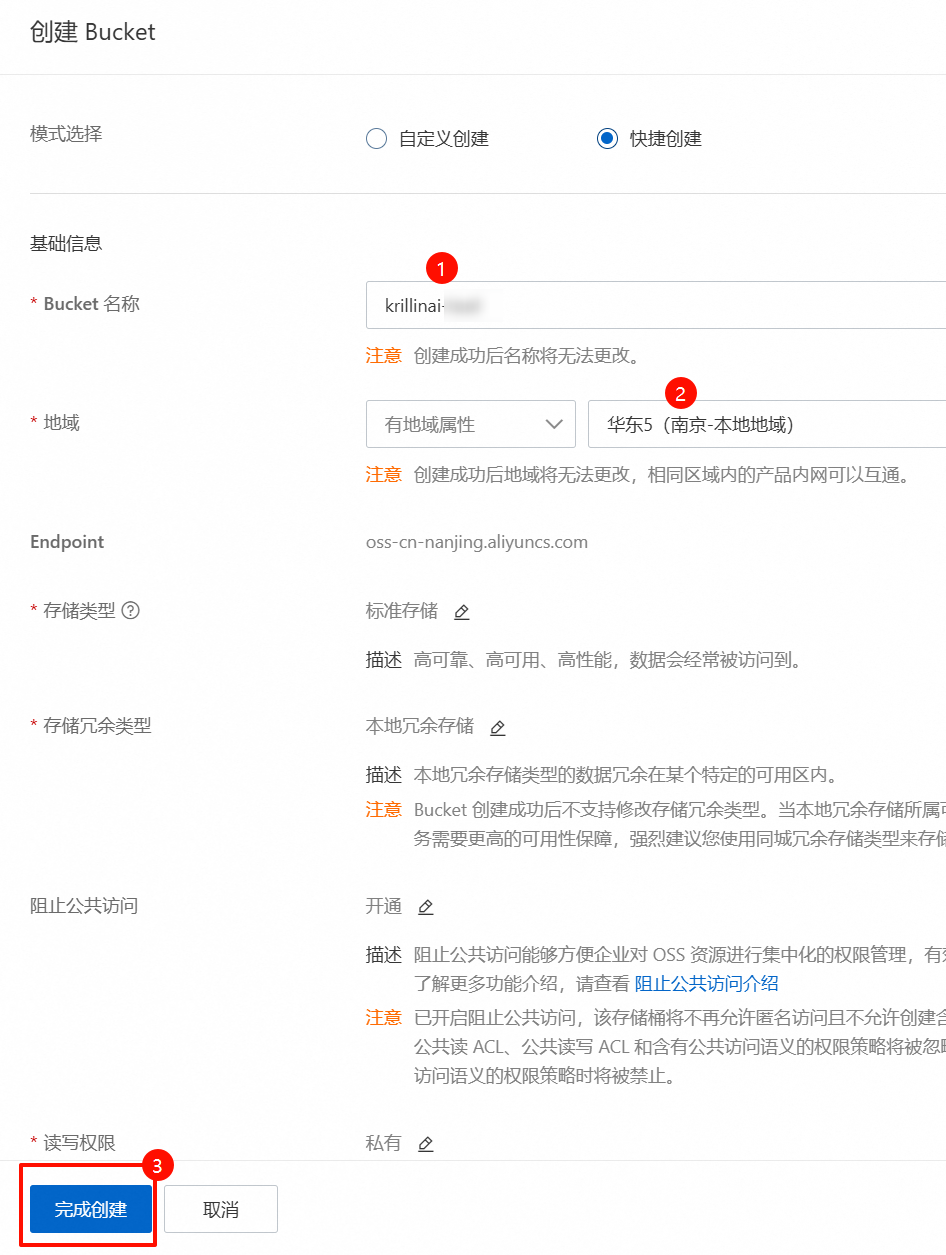
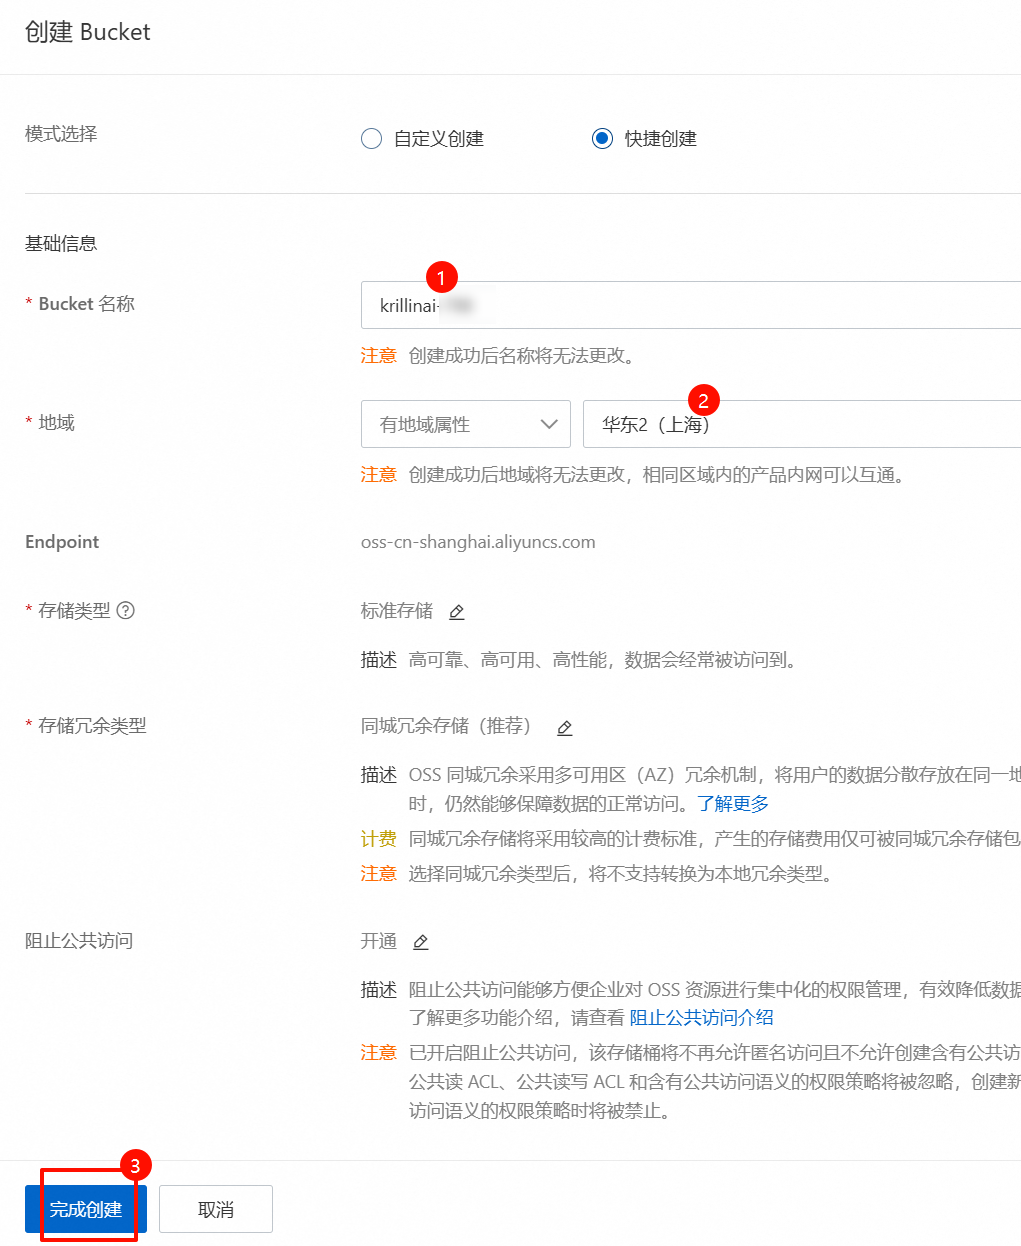
docs: update readme

diff --git a/docs/aliyun.md b/docs/aliyun.md
@@ -25,7 +25,7 @@
 1. 进入[阿里云对象存储服务控制台](https://oss.console.aliyun.com/overview)，首次进入需开通服务
 2. 左侧选择Bucket列表，然后点击创建
 ![阿里云OSS](./images/aliyun_oss_1.png)
-3. 选择快捷创建，填写合适的名字和就近的地域，完成创建(此处填写的名字就是配置项`aliyun.oss.bucket`的值)
+3. 选择快捷创建，填写符合要求的Bucket名称并选择**上海**地域，完成创建(此处填写的名字就是配置项`aliyun.oss.bucket`的值)
 ![阿里云OSS](./images/aliyun_oss_2.png)
 4. 创建完成后进入Bucket
 ![阿里云OSS](./images/aliyun_oss_3.png)